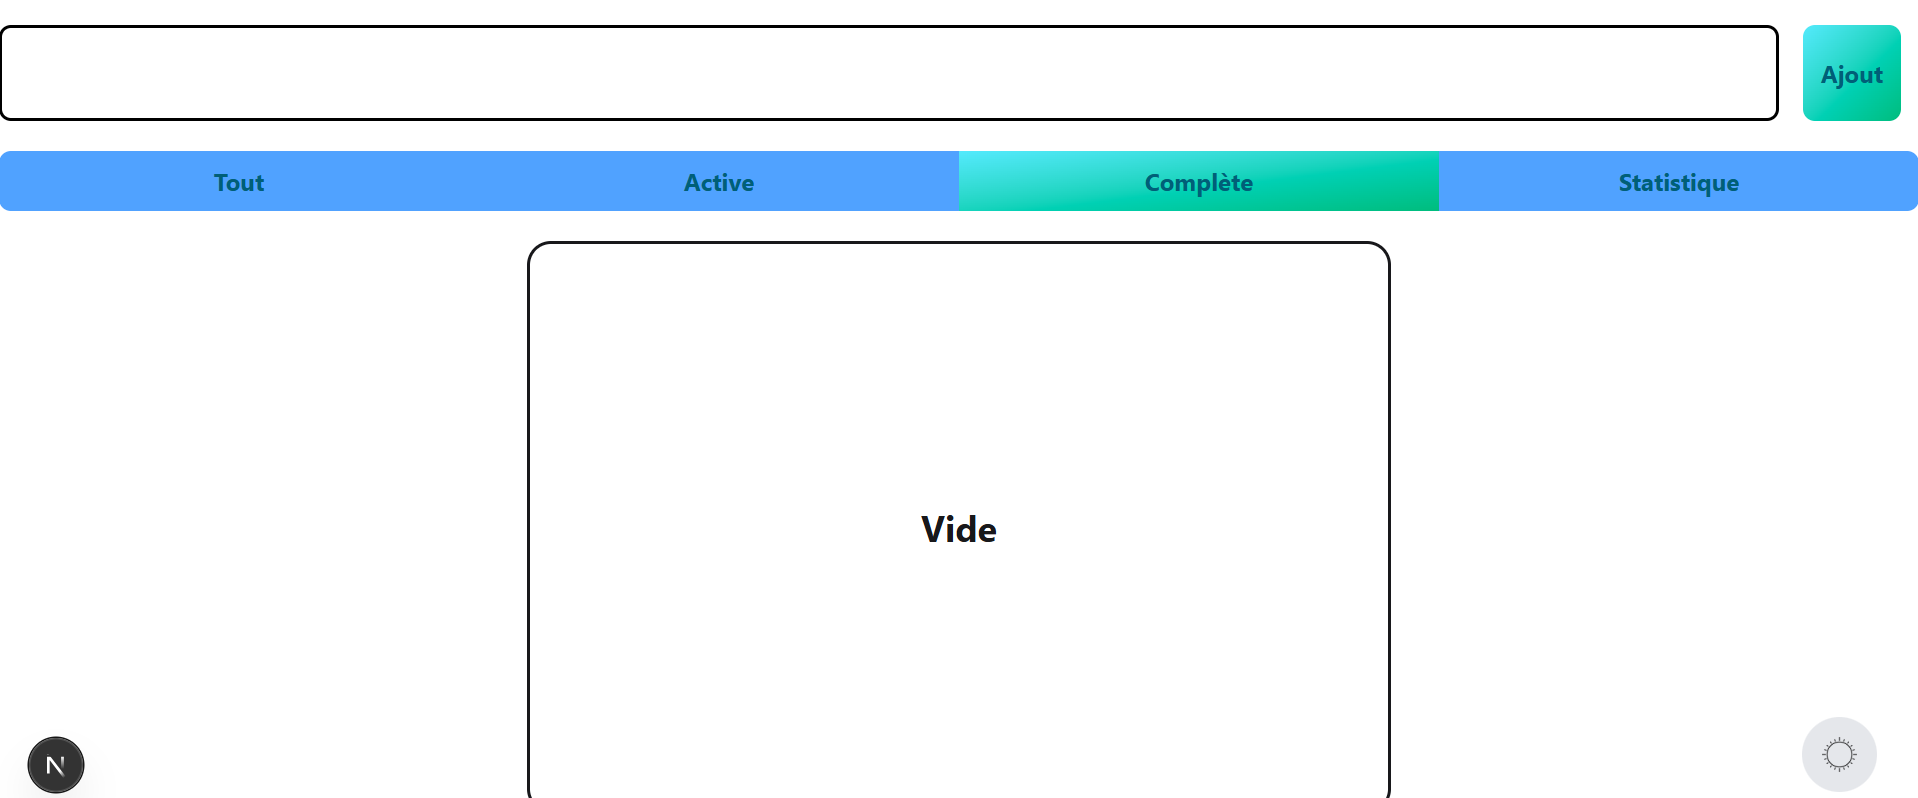
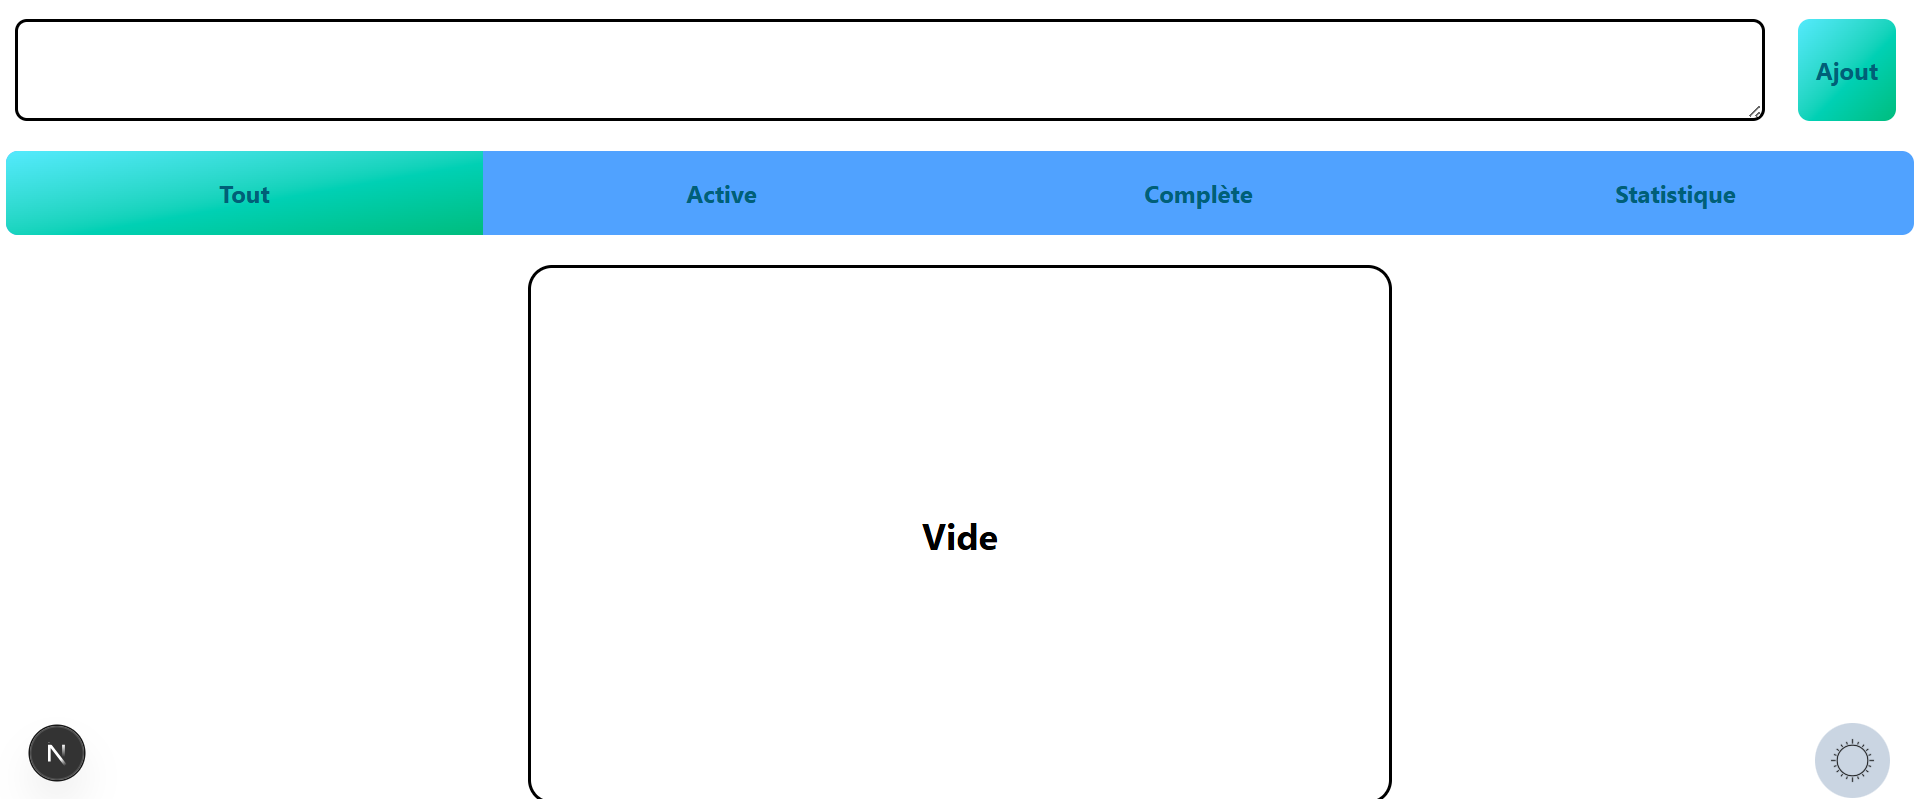
Commit

diff --git a/README_en.md b/README_en.md
@@ -39,3 +39,7 @@ Open [http://localhost:3000](http://localhost:3000) with your browser to see the
 ![](screenshot/2.png)
 
 ![](screenshot/3.png)
+
+![](screenshot/4.png)
+
+![](screenshot/5.png)

diff --git a/README_fr.md b/README_fr.md
@@ -39,3 +39,7 @@ Ouvrez [http://localhost:3000](http://localhost:3000) avec votre navigateur pour
 ![](screenshot/2.png)
 
 ![](screenshot/3.png)
+
+![](screenshot/4.png)
+
+![](screenshot/5.png)

diff --git a/README.md b/README.md
@@ -42,3 +42,7 @@ npm run dev
 ![](screenshot/2.png)
 
 ![](screenshot/3.png)
+
+![](screenshot/4.png)
+
+![](screenshot/5.png)
